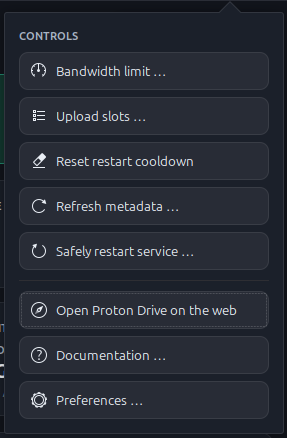
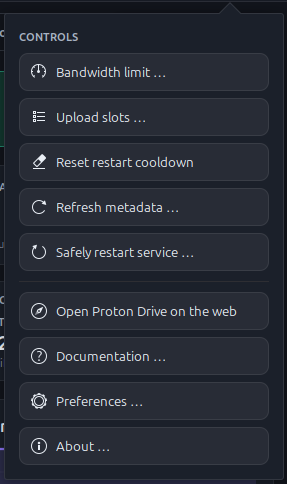
Add About dialog for version and credits

diff --git a/docs/OPERATIONS.md b/docs/OPERATIONS.md
@@ -228,9 +228,13 @@ result and exit status, uptime, restart count, mount filesystem and the latest
 watchdog state. Health history on disk is capped at 512 samples, the state
 adapter exposes 48, and the UI renders the latest 24.
 
-The control popover opens guarded operations, Preferences and a native Markdown
-documentation window with Getting started, Operations and Troubleshooting
-pages. It prefers `$XDG_DATA_HOME/doc/proton-drive-linux`, then conventional
+The control popover opens guarded operations, Preferences, an About dialog and
+a native Markdown documentation window with Getting started, Operations and
+Troubleshooting pages. The About dialog reports the installed PDrive Control
+Center version, project authors, GPL license and canonical GitHub project link;
+software updates remain the responsibility of the documented installer or
+future system package manager. The documentation viewer prefers
+`$XDG_DATA_HOME/doc/proton-drive-linux`, then conventional
 `/usr/share/doc/proton-drive-linux` package files and finally a development
 checkout. Headings, lists, tables, quotations, GitHub callouts, code, local
 project images and links are rendered by GTK without WebKit or another runtime
